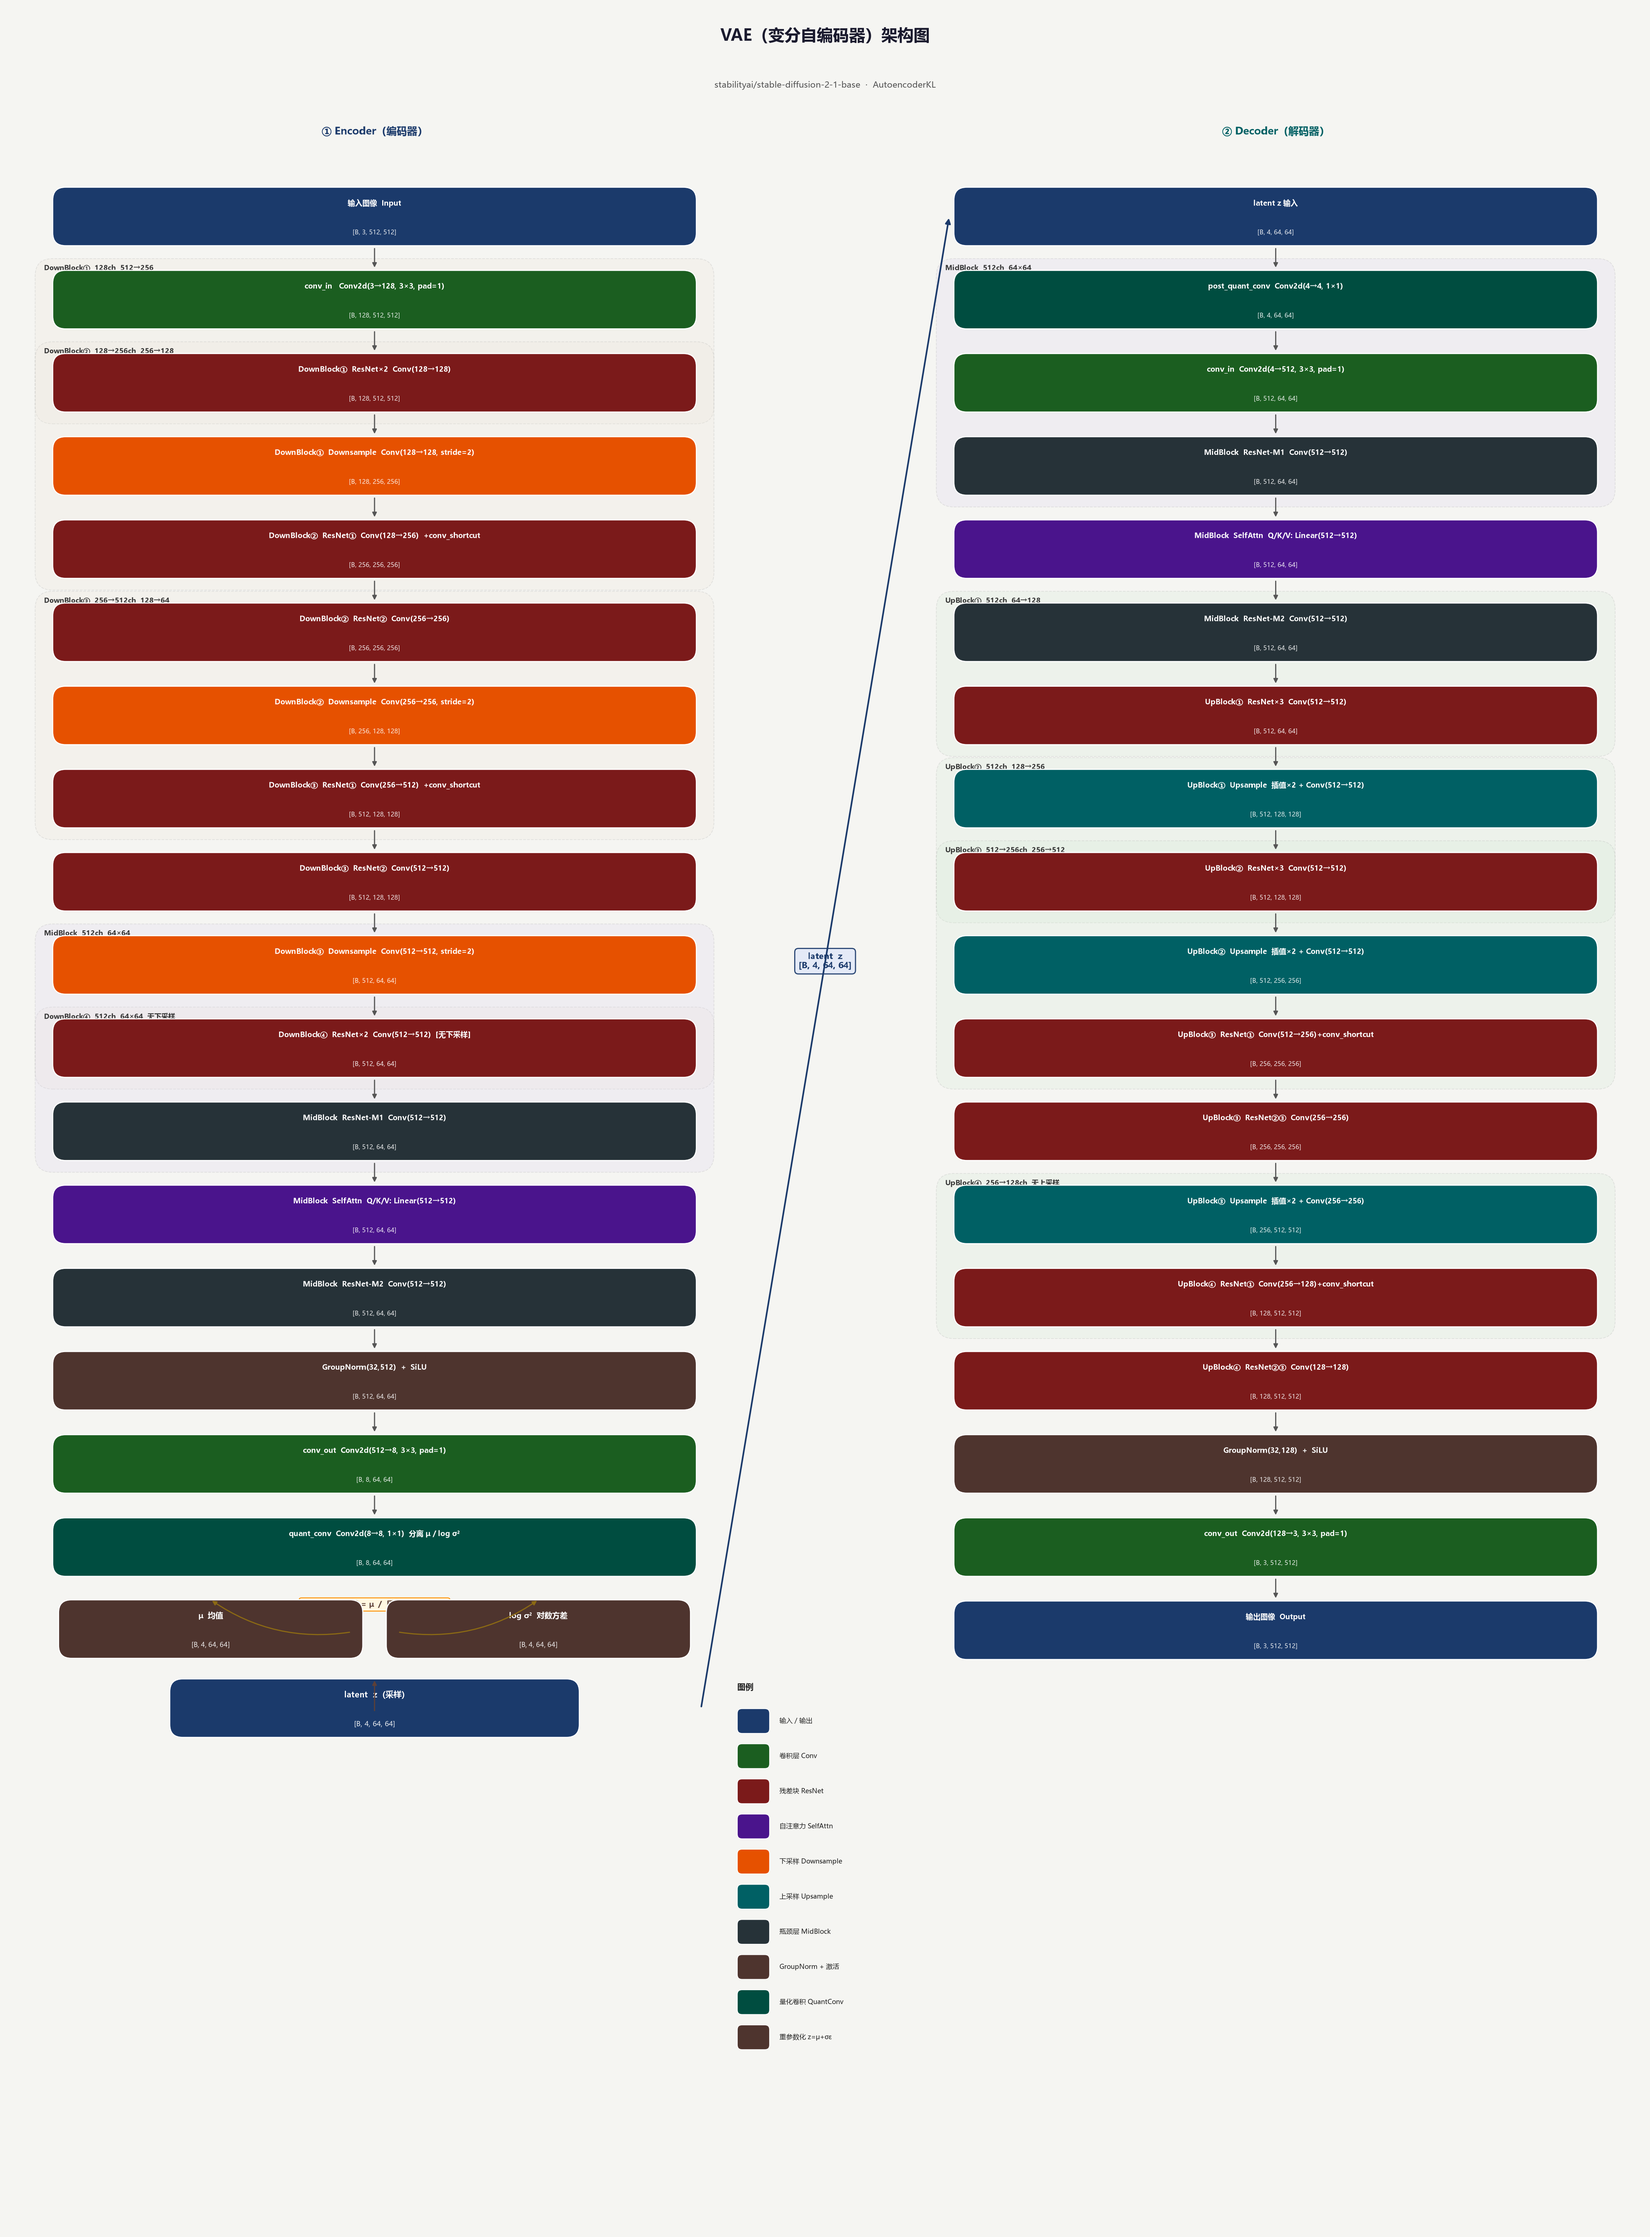
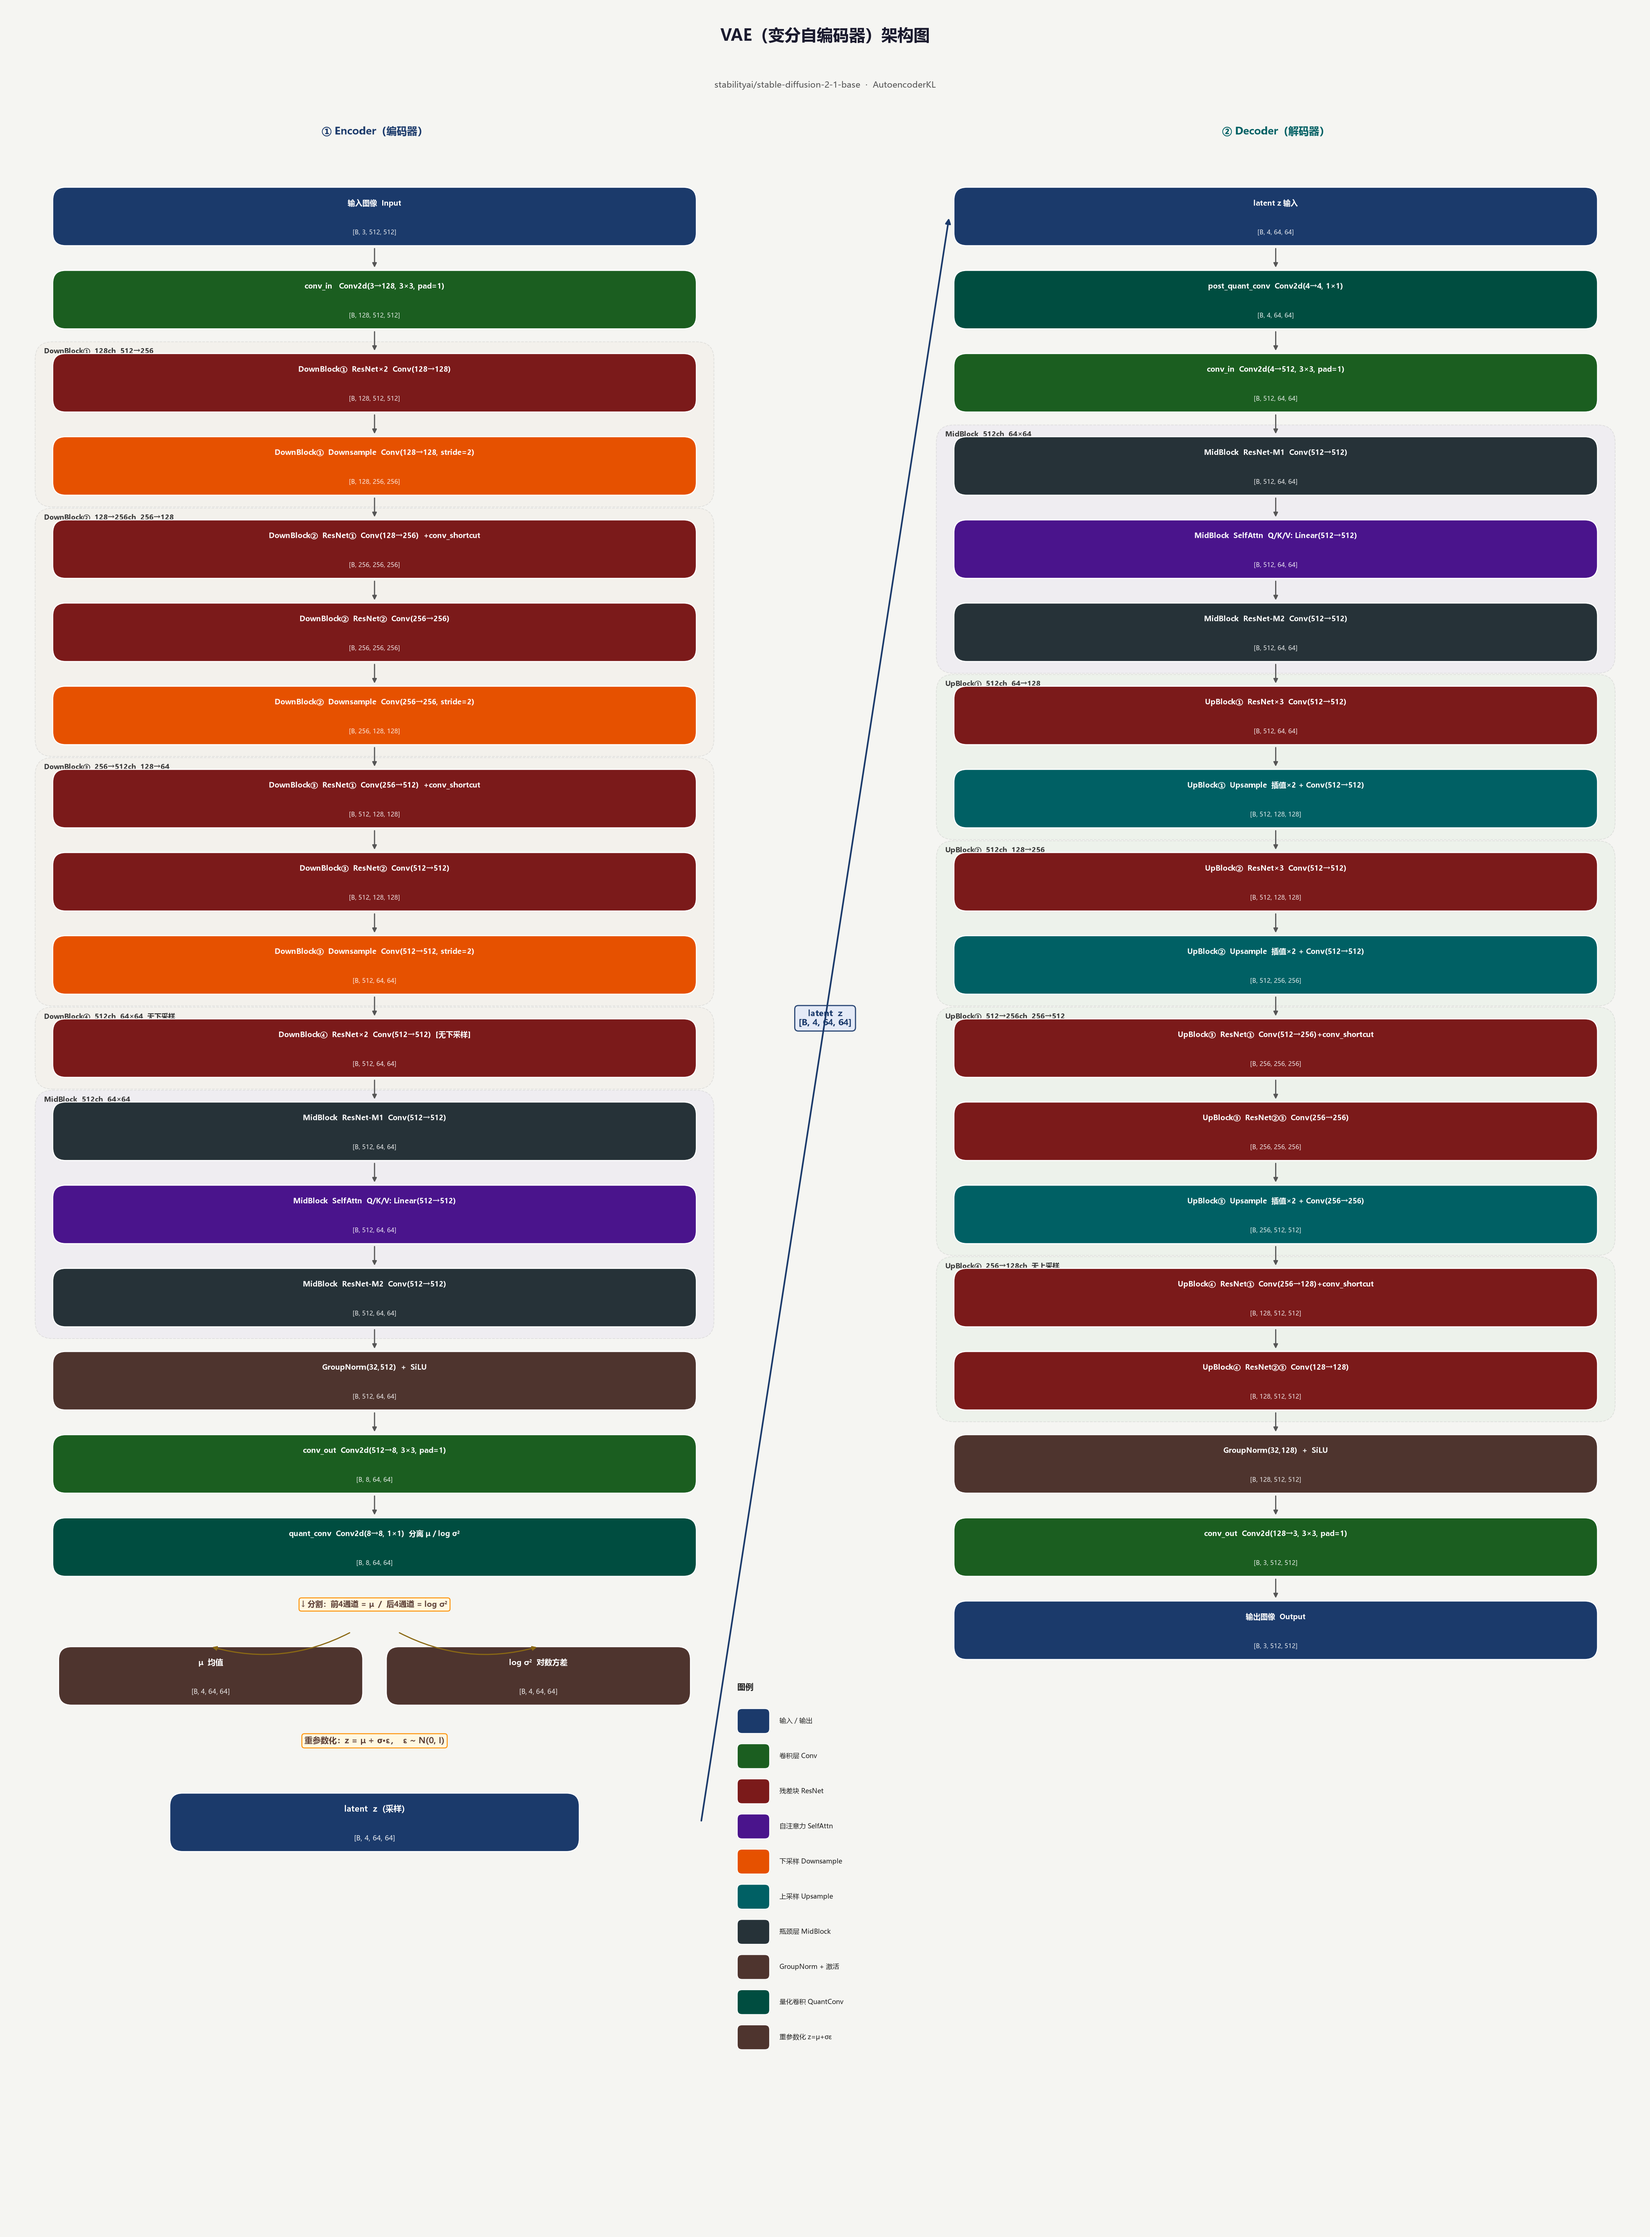
add

Changed region(s): [[0.0311, 0.7166, 0.4357, 0.8413], [0.498, 0.4051, 0.5291, 0.4674]]

diff --git a/draw_sd_architecture.py b/draw_sd_architecture.py
@@ -210,15 +210,16 @@ def draw_vae():
         if i > 0: av(ax, EX, ey[-2]-0.02, ey[-1]+BH+0.02)
         cur -= step
 
-    grp(ax, EL-.3, ey[2]-.2, BW+.6, (ey[2]-ey[3])+BH+.4,
+    # 分组框 y 起点必须用组内最低块（最小 y）的 bottom-y，而非最高块
+    grp(ax, EL-.3, ey[3]-.2, BW+.6, (ey[2]-ey[3])+BH+.4,
         "DownBlock①  128ch  512→256", "#EEE8DD")
-    grp(ax, EL-.3, ey[4]-.2, BW+.6, (ey[4]-ey[6])+BH+.4,
+    grp(ax, EL-.3, ey[6]-.2, BW+.6, (ey[4]-ey[6])+BH+.4,
         "DownBlock②  128→256ch  256→128", "#EEE8DD")
-    grp(ax, EL-.3, ey[7]-.2, BW+.6, (ey[7]-ey[9])+BH+.4,
+    grp(ax, EL-.3, ey[9]-.2, BW+.6, (ey[7]-ey[9])+BH+.4,
         "DownBlock③  256→512ch  128→64", "#EEE8DD")
     grp(ax, EL-.3, ey[10]-.2, BW+.6, BH+.4,
         "DownBlock④  512ch  64×64  无下采样", "#EEE8DD")
-    grp(ax, EL-.3, ey[11]-.2, BW+.6, (ey[11]-ey[13])+BH+.4,
+    grp(ax, EL-.3, ey[13]-.2, BW+.6, (ey[11]-ey[13])+BH+.4,
         "MidBlock  512ch  64×64", "#E0D8F0")
 
     # 重参数化
@@ -228,26 +229,30 @@ def draw_vae():
             ha="center", fontsize=9.5, color="#5D4037", fontweight="bold",
             bbox=dict(fc="#FFF8E1", ec="#FF8F00", lw=1.1,
                       boxstyle="round,pad=0.3"))
-    rpy = qy - 1.4
+    # rpy：μ/σ 块底边，需留出足够空间容纳上方分割文字（文字中心 qy-0.52，含 bbox 约 0.7 高）
+    rpy = qy - 2.2
     sw = BW/2 - 0.3
     blk(ax, EL+0.1, rpy, sw, BH,
         ["μ  均值", "[B, 4, 64, 64]"], base=C["rep"], fs=9.5)
     blk(ax, EL+sw+0.5, rpy, sw, BH,
         ["log σ²  对数方差", "[B, 4, 64, 64]"], base=C["rep"], fs=9.5)
+    # 曲线箭头：从分割文字下方指向 μ/σ 块顶边（qy-0.95 > qy-1.2，向下）
     ac(ax, EX-.4, qy-0.95, EL+0.1+sw/2, rpy+BH,
        col="#8B6914", lw=1.4, rad=-0.2)
     ac(ax, EX+.4, qy-0.95, EL+sw+0.5+sw/2, rpy+BH,
        col="#8B6914", lw=1.4, rad=0.2)
 
-    zy = rpy - 1.35
-    ax.text(EX, rpy-0.58,
+    # zy：latent z 块底边，需留出空间容纳下方重参数化文字及箭头
+    zy = rpy - 2.5
+    ax.text(EX, rpy-0.65,
             "重参数化：z = μ + σ·ε，  ε ~ N(0, I)",
             ha="center", fontsize=10, color="#5D4037", fontweight="bold",
             bbox=dict(fc="#FFF8E1", ec="#FF8F00", lw=1.1,
                       boxstyle="round,pad=0.32"))
     blk(ax, EL+2.0, zy, BW-4.0, BH,
         ["latent  z  (采样)", "[B, 4, 64, 64]"], base=C["io"], fs=10)
-    av(ax, EX, rpy-0.92, zy+BH, col="#5D4037")
+    # 垂直箭头：从重参数化说明下方（rpy-1.5）指向 latent z 顶边（向下）
+    av(ax, EX, rpy-1.5, zy+BH, col="#5D4037")
 
     # ── 解码器步骤 ──────────────────────────────────
     dec = [
@@ -294,15 +299,16 @@ def draw_vae():
         if i > 0: av(ax, DX, dy[-2]-0.02, dy[-1]+BH+0.02)
         cur -= step
 
-    grp(ax, DL-.3, dy[3]-.2, BW+.6, (dy[3]-dy[5])+BH+.4,
+    # 同上：y 起点用组内最低块（最小 y）的 bottom-y
+    grp(ax, DL-.3, dy[5]-.2, BW+.6, (dy[3]-dy[5])+BH+.4,
         "MidBlock  512ch  64×64", "#E0D8F0")
-    grp(ax, DL-.3, dy[6]-.2, BW+.6, (dy[6]-dy[7])+BH+.4,
+    grp(ax, DL-.3, dy[7]-.2, BW+.6, (dy[6]-dy[7])+BH+.4,
         "UpBlock①  512ch  64→128", "#D8EDD8")
-    grp(ax, DL-.3, dy[8]-.2, BW+.6, (dy[8]-dy[9])+BH+.4,
+    grp(ax, DL-.3, dy[9]-.2, BW+.6, (dy[8]-dy[9])+BH+.4,
         "UpBlock②  512ch  128→256", "#D8EDD8")
-    grp(ax, DL-.3, dy[10]-.2, BW+.6, (dy[10]-dy[12])+BH+.4,
+    grp(ax, DL-.3, dy[12]-.2, BW+.6, (dy[10]-dy[12])+BH+.4,
         "UpBlock③  512→256ch  256→512", "#D8EDD8")
-    grp(ax, DL-.3, dy[13]-.2, BW+.6, (dy[13]-dy[14])+BH+.4,
+    grp(ax, DL-.3, dy[14]-.2, BW+.6, (dy[13]-dy[14])+BH+.4,
         "UpBlock④  256→128ch  无上采样", "#D8EDD8")
 
     # latent z → decoder 连线
@@ -719,14 +725,16 @@ def draw_unet():
         grp(ax, EL-0.3, y_bot-0.2, BW+0.6,
             y_top-y_bot+0.4, lbl, fc=fc, ec=ec, fs=8)
 
-    if 14 in enc_ys:
-        enc_grp(12, 14, "CrossAttnDownBlock①  [ch=320, 64×64→32×32]",
+    # enc_grp(p_top, p_bot)：p_top 为组内最高行 pos（y 最大），p_bot 为最低行 pos（y 最小）
+    # 每个 CrossAttnDownBlock 含：2 个 ResNet+CrossAttn（上）+ 1 个 Downsample（下）
+    if 13 in enc_ys and 10 in enc_ys:
+        enc_grp(13, 10, "CrossAttnDownBlock①  [ch=320, 64×64→32×32]",
                 "#EEF2FF", "#3949AB")
-    if 10 in enc_ys:
-        enc_grp(9, 10, "CrossAttnDownBlock②  [ch=320→640, 32→16]",
+    if 9 in enc_ys and 6 in enc_ys:
+        enc_grp(9, 6, "CrossAttnDownBlock②  [ch=320→640, 32→16]",
                 "#E8F5E9", "#388E3C")
-    if 6 in enc_ys:
-        enc_grp(5, 6, "CrossAttnDownBlock③  [ch=640→1280, 16→8]",
+    if 5 in enc_ys and 2 in enc_ys:
+        enc_grp(5, 2, "CrossAttnDownBlock③  [ch=640→1280, 16→8]",
                 "#F3E5F5", "#7B1FA2")
     if 0 in enc_ys and 1 in enc_ys:
         enc_grp(1, 0, "DownBlock④  [ch=1280, 8×8  无CrossAttn无Downsample]",
